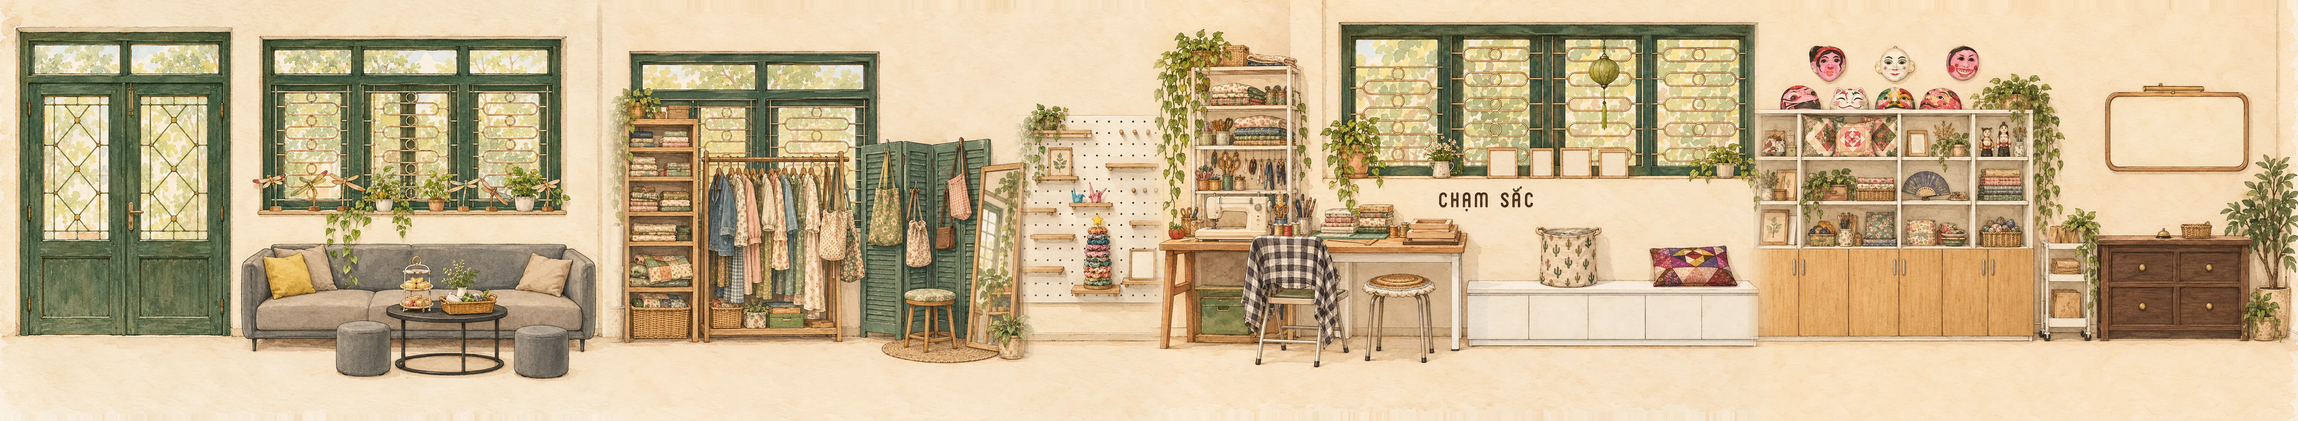
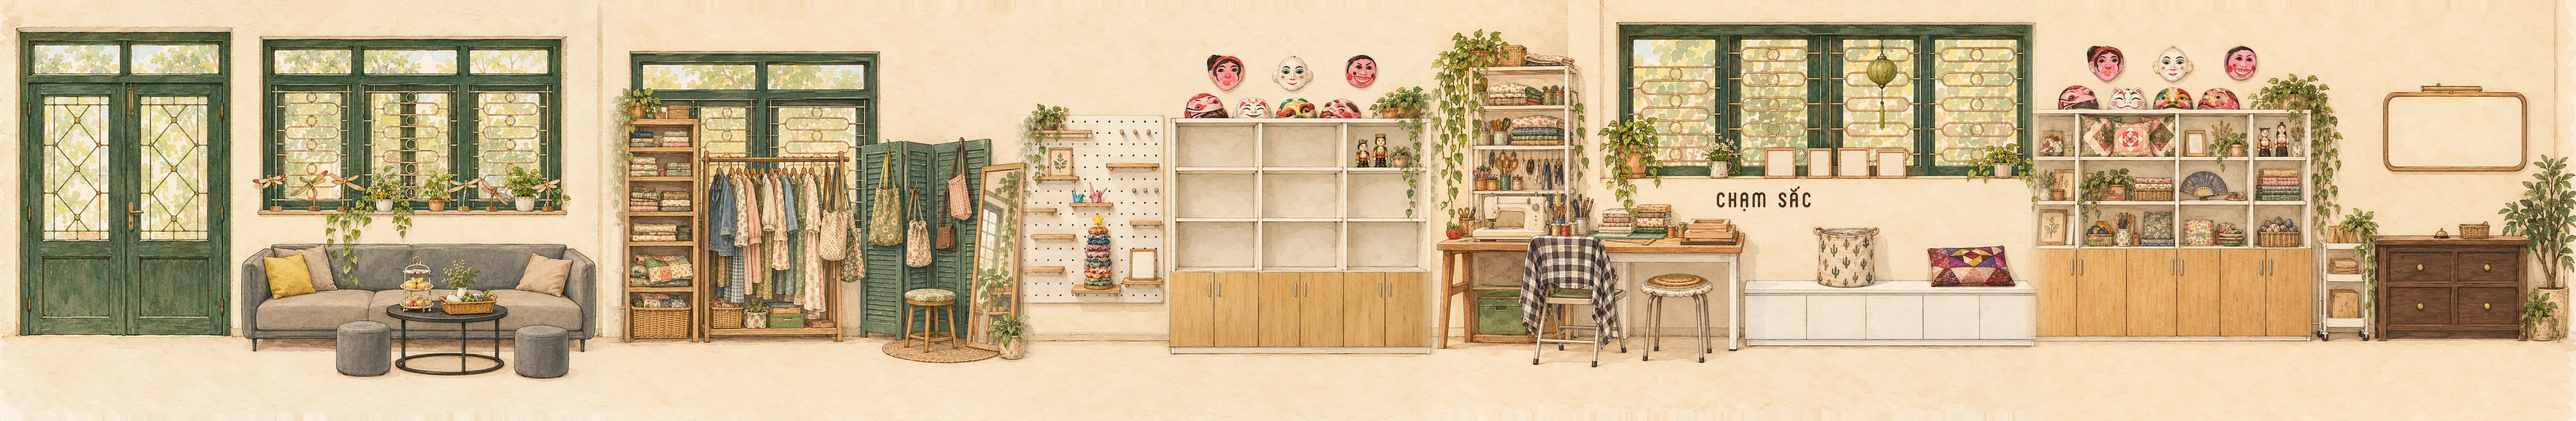
feat(studio): keep zone 3's empty cabinet and stand real product photos on its shelves
Claude-Session: https://claude.ai/code/session_01EtmDkYfSZ89vTvfpqyGpca

diff --git a/js/studio.js b/js/studio.js
@@ -20,26 +20,26 @@
      SCENE — numbers come from tools/studio-assets.py (the STRIP line)
      ====================================================================== */
   // Strip = five painted scenes joined by tools/studio-assets.py --strip2
-  // (it prints these numbers). Zone 3 is only the pegboard; zone 5 starts
-  // at the full cabinet. Hotspot y values below are in strip pixels (the
+  // (it prints these numbers). Zone 3's cabinet is empty on purpose: the
+  // real product photos stand on its shelves (DISPLAY below). Hotspot y values below are in strip pixels (the
   // tool nudges each scene up/down to line up the skirting).
   var SCENE = {
-    width: 5590,
+    width: 6264,
     height: 1024,
     // x = where the zone starts in the strip, cropL = first source pixel kept
     zones: [
       { x: 0,    cropL: 0 },
       { x: 1472, cropL: 480 },
       { x: 2464, cropL: 485 },
-      { x: 2777, cropL: 0 },
-      { x: 4249, cropL: 195 }
+      { x: 3451, cropL: 0 },
+      { x: 4923, cropL: 195 }
     ],
     feetY: 965,          // where the character's feet touch the floor
     playerH: 410,        // character height, strip pixels
     startX: 640,         // just inside the door
     speed: 900,          // strip pixels per second
     // Udon sitting on the walnut counter, left of the bell
-    udon: { x: 5100, y: 468, w: 128, h: 120 }
+    udon: { x: 5774, y: 468, w: 128, h: 120 }
   };
 
   // box = [x0, y0, x1, y1] in the zone's source image (1536 x 1024)
@@ -53,6 +53,7 @@
     { id: 'rail',     zone: 2, box: [520, 360, 1065, 720],  label: 'studio.hot_rail' },               // shelf + clothes rail
     { id: 'fitting',  zone: 2, box: [1095, 340, 1500, 740], label: 'studio.hot_fitting' },
     { id: 'pegboard', zone: 3, box: [495, 280, 855, 720],   label: 'studio.hot_pegboard' },
+    { id: 'display',  zone: 3, box: [883, 300, 1485, 655],  label: 'studio.hot_display', stand: 870 },  // open shelves; stop beside, not in front
     { id: 'sewing',   zone: 4, box: [45, 450, 790, 590],    label: 'studio.hot_sewing', stand: 860 },  // table top only
     { id: 'tu',       zone: 4, box: [820, 385, 1180, 510],  label: 'studio.hot_tu' },                 // frames + CHẠM SẮC
     { id: 'cabinet',  zone: 5, box: [200, 260, 895, 600],   label: 'studio.hot_cabinet' },            // open shelves only
@@ -74,9 +75,25 @@
   var who = 'p1';
   try { if (CAST.indexOf(localStorage.getItem('gem-char')) >= 0) who = localStorage.getItem('gem-char'); } catch (e) { /* private mode */ }
 
+  // Products standing in the empty zone-3 cabinet, one per cubby: zone source
+  // x of the cubby's left/right edge, strip y of the shelf it stands on.
+  // The top-right cubby is skipped (the painted dolls live there).
+  var DISPLAY = [
+    { sku: 'origami',  x: [883, 1073],  y: 407 },
+    { sku: 'oxford',   x: [1090, 1280], y: 407 },
+    { sku: 'denim',    x: [883, 1073],  y: 530 },
+    { sku: 'tuibut',   x: [1090, 1280], y: 530 },
+    { sku: 'biaso',    x: [1297, 1485], y: 530 },
+    { sku: 'so-kraft', x: [883, 1073],  y: 650 },
+    { sku: 'so-khau',  x: [1090, 1280], y: 650 },
+    { sku: 'set-qua',  x: [1297, 1485], y: 650 }
+  ];
+  var DISPLAY_H = 100;  // frame height on the shelf, strip px
+
   var SHELVES = {
-    pegboard: ['scrunchie', 'bookmark', 'tuibut', 'origami', 'bloom', 'daydeo', 'biaso', 'so-kraft', 'so-khau'],
-    cabinet:  ['goi', 'tham', 'lotcoc', 'oxford', 'denim', 'set-qua']
+    pegboard: ['scrunchie', 'bookmark', 'bloom', 'daydeo'],
+    display:  DISPLAY.map(function (d) { return d.sku; }),
+    cabinet:  ['goi', 'tham', 'lotcoc', 'set-qua']
   };
 
   // The "bộ sưu tập" counted in the Tủ: every fabric-scrap piece.
@@ -140,7 +157,8 @@
     'studio.hot_sofa':     { vi: `Góc nghỉ chân`, en: `Sofa corner` },
     'studio.hot_rail':     { vi: `Đồ 2hand`, en: `Secondhand` },
     'studio.hot_fitting':  { vi: `Góc thử đồ`, en: `Fitting corner` },
-    'studio.hot_pegboard': { vi: `Phụ kiện & sổ`, en: `Accessories & notebooks` },
+    'studio.hot_pegboard': { vi: `Phụ kiện nhỏ`, en: `Little accessories` },
+    'studio.hot_display':  { vi: `Túi & sổ`, en: `Bags & notebooks` },
     'studio.hot_cabinet':  { vi: `Gối, thảm & quà`, en: `Cushions, rugs & gifts` },
     'studio.hot_sewing':   { vi: `Bàn thiết kế`, en: `Design table` },
     'studio.hot_memo':     { vi: `Bảng lời nhắn`, en: `Message board` },
@@ -155,7 +173,9 @@
     'studio.out':          { vi: `Tạm hết hàng`, en: `Out of stock` },
     'studio.all_products': { vi: `Xem tất cả trên trang Sản phẩm`, en: `See everything on the Products page` },
 
-    'studio.pegboard_h':   { vi: `Phụ kiện vải vụn & sổ`, en: `Fabric-scrap accessories & notebooks` },
+    'studio.display_h':    { vi: `Túi, sổ & set quà`, en: `Bags, notebooks & gift sets` },
+    'studio.display_p':    { vi: `Những món đang bày trên kệ — mỗi chiếc một kiểu vải.`, en: `What's on the shelves right now — each one in its own fabrics.` },
+    'studio.pegboard_h':   { vi: `Phụ kiện vải vụn`, en: `Fabric-scrap accessories` },
     'studio.pegboard_p':   { vi: `Mỗi món ghép từ vải vụn, không cái nào giống cái nào.`, en: `Each piece is sewn from scraps, so no two are alike.` },
     'studio.cabinet_h':    { vi: `Gối, thảm & set quà`, en: `Cushions, rugs & gift sets` },
     'studio.cabinet_p':    { vi: `Đồ chắp vải cỡ lớn và những set quà gói sẵn.`, en: `Larger patchwork pieces and ready-wrapped gift sets.` },
@@ -318,6 +338,20 @@
   var lastFocus = null;
 
   function build() {
+    // Product photos on the zone-3 shelves, under the hotspots (not tappable
+    // on their own: the whole cabinet opens).
+    DISPLAY.forEach(function (d) {
+      if (!THUMB[d.sku]) return;
+      var x0 = zoneX(3, d.x[0]), x1 = zoneX(3, d.x[1]);
+      var fr = document.createElement('span');
+      fr.className = 'st-shelf-item';
+      fr.style.left = pct((x0 + x1) / 2, SCENE.width);
+      fr.style.bottom = pct(SCENE.height - d.y, SCENE.height);
+      fr.style.height = pct(DISPLAY_H, SCENE.height);
+      fr.innerHTML = '<img src="images/products/' + THUMB[d.sku] + '" alt="" loading="lazy" draggable="false">';
+      world.appendChild(fr);
+    });
+
     // Hotspots
     HOTSPOTS.forEach(function (h) {
       var b = boxOf(h);
@@ -1233,6 +1267,7 @@
     rail: railSheet,
     fitting: fittingSheet,
     pegboard: function () { shelfSheet('pegboard'); },
+    display: function () { shelfSheet('display'); },
     cabinet: function () { shelfSheet('cabinet'); },
     sewing: designerSheet,
     memo: memoSheet,
@@ -1280,7 +1315,7 @@
       b.addEventListener('click', function () {
         var go = b.getAttribute('data-go');
         if (go === 'shelves') {
-          visit('cabinet', false);
+          visit('display', false);
         } else {
           // The places people come for open straight away.
           visit(go, go === 'sewing' || go === 'counter' || go === 'tu');

diff --git a/css/studio.css b/css/studio.css
@@ -152,6 +152,25 @@
 .st-udon-ghost { position: absolute; z-index: 6; height: auto; max-width: none; pointer-events: none; }
 .st-stage * { -webkit-tap-highlight-color: transparent; }
 
+/* Real product photos standing on the empty cabinet's shelves, in a thin
+   wooden frame, like prints propped up for sale. */
+.st-shelf-item {
+  position: absolute;
+  display: block;
+  aspect-ratio: 1;
+  transform: translateX(-50%);
+  padding: 0;   /* % padding would be relative to the whole strip */
+  background: #FBF6EE;
+  border: 3px solid #B08452;
+  border-radius: 3px;
+  box-shadow: 2px 3px 4px rgba(61, 74, 46, 0.28);
+  pointer-events: none;
+}
+.st-shelf-item img {
+  display: block; box-sizing: border-box; width: 100%; height: 100%;
+  object-fit: cover; border: 3px solid #FBF6EE;
+}
+
 /* Paper notes on the memo board: a hint that people have written. */
 .st-pins { position: absolute; pointer-events: none; }
 .st-pin {

diff --git a/tools/studio-assets.py b/tools/studio-assets.py
@@ -58,12 +58,12 @@ def save_webp(img, path, quality=82):
 
 # Second painted set (Oct 2026): five scenes, wall/floor line not quite at
 # the same height in each, so every scene is nudged (SHIFT2, px, + = down)
-# to put the skirting at ~y 820 before joining. Zone 3's empty cabinet is
-# left out: zone 5 paints the same cabinet full, next to the counter.
+# to put the skirting at ~y 820 before joining. Zone 3's cabinet is painted
+# empty on purpose: js/studio.js stands real product photos on its shelves.
 ZONES2 = [
     ('z1.png', 0, 1536),
     ('z2.png', 480, 1536),
-    ('z3.png', 485, 862),
+    ('z3.png', 485, 1536),
     ('z4.png', 0, 1536),
     ('z5.png', 195, 1536),
 ]
